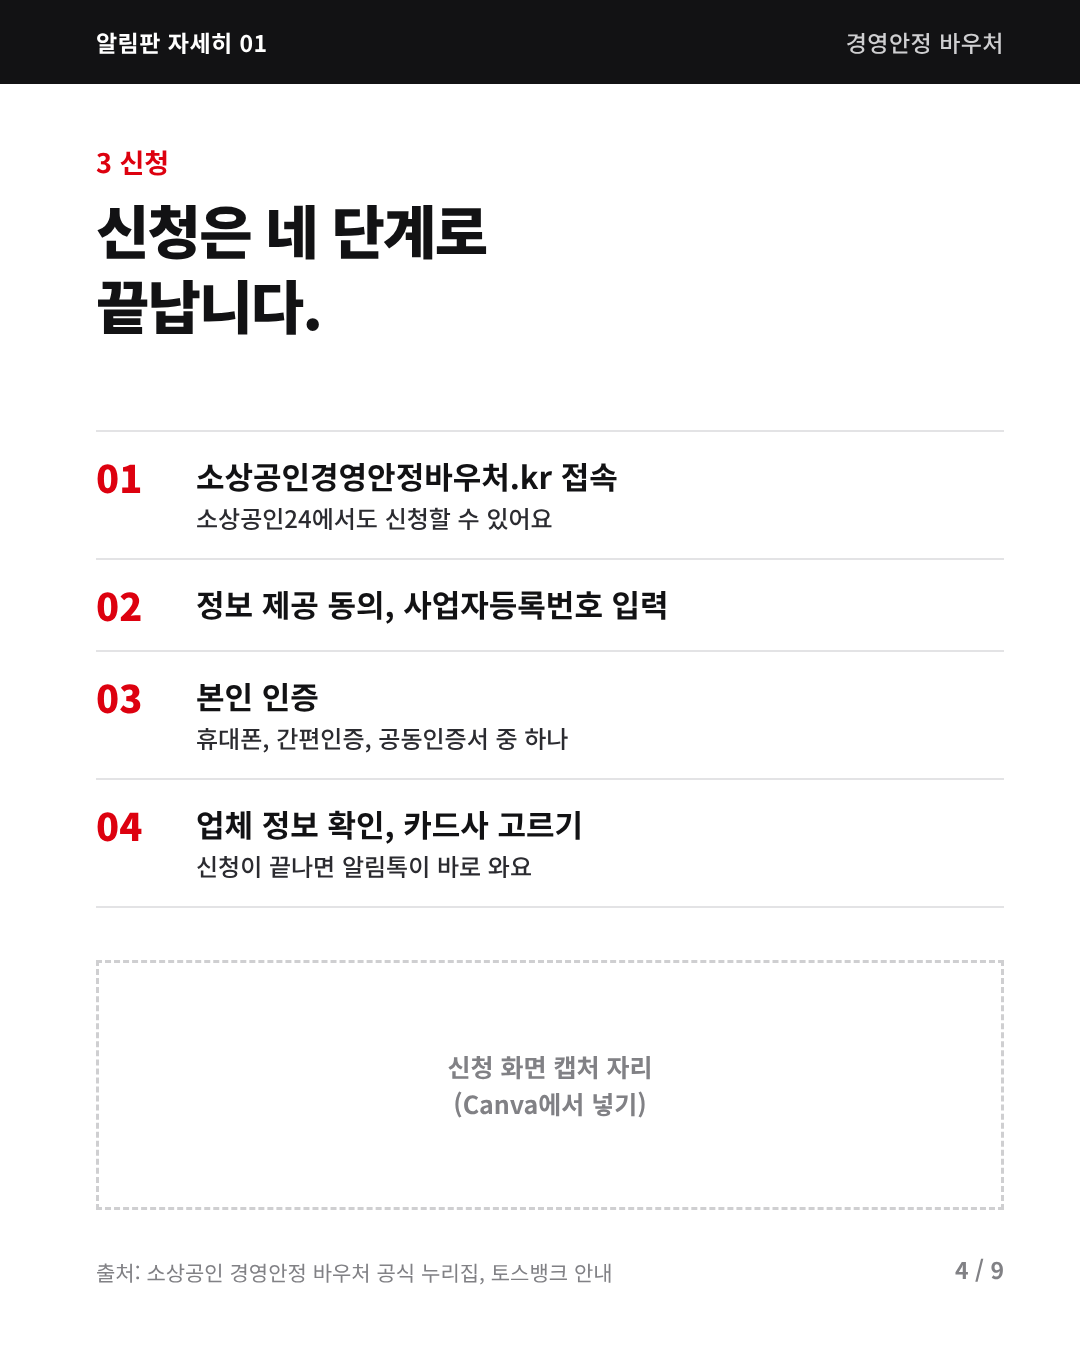
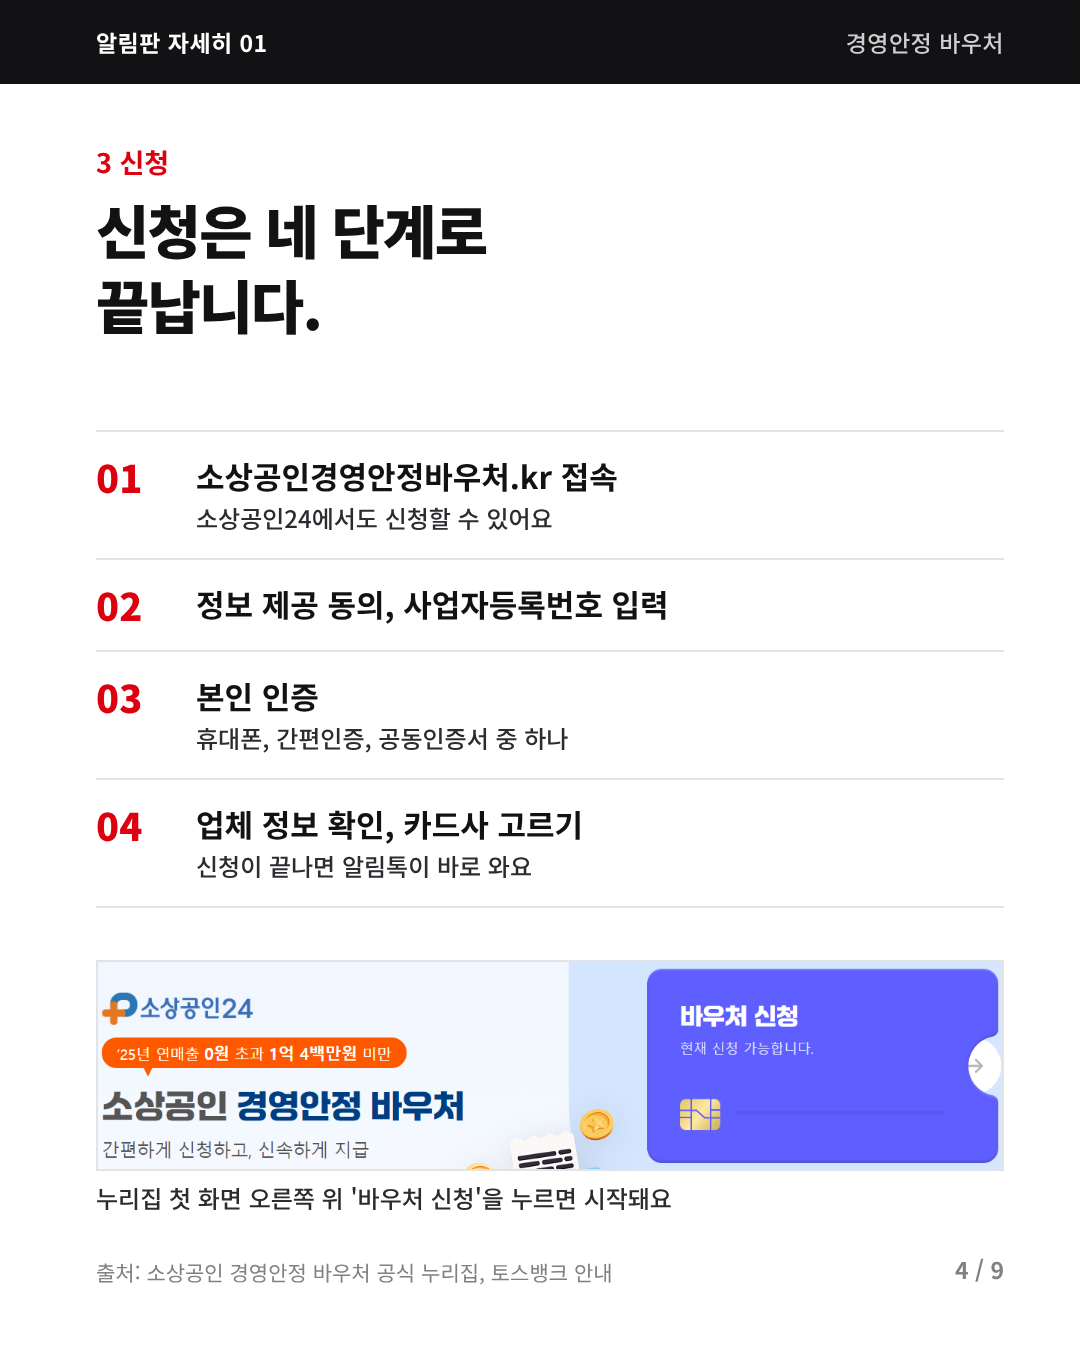
Put the voucher site screenshot behind the 알림판 자세히 01 cover
Use the user's capture of the voucher site's first screen as a blurred,
darkened cover background and as the slide 4 screenshot.

Claude-Session: https://claude.ai/code/session_01KoBnt2iz7SC3gdCuJPqB9A

Changed region(s): [[0.0917, 0.6844, 0.9472, 0.9022]]

diff --git a/instagram/2026-10_알림판자세히01_경영안정바우처/slides.html b/instagram/2026-10_알림판자세히01_경영안정바우처/slides.html
@@ -95,11 +95,16 @@ body{background:#888;font-family:var(--sans)}
 .steps p{font-size:31px;font-weight:700;line-height:1.4}
 .steps small{display:block;font-size:24px;font-weight:500;color:var(--body);margin-top:4px;line-height:1.45}
 .shot{position:absolute;left:96px;right:76px;border:3px dashed var(--g1);display:flex;align-items:center;justify-content:center;font-size:25px;font-weight:700;color:var(--g2);text-align:center;line-height:1.5}
+
+/* 표지 배경: 바우처 누리집 첫 화면(사용자 캡처)을 흐리게 깔고 어둡게 덮는다 */
+.photo{background:linear-gradient(rgba(10,10,11,.78),rgba(10,10,11,.84)),url(bg-voucher-home.jpg) center/cover;color:var(--white)}
+.shotimg{position:absolute;left:96px;right:76px;border:2px solid var(--line);display:block;width:908px;height:auto}
+.shotcap{position:absolute;left:96px;font-size:24px;font-weight:500;color:var(--body)}
 </style>
 </head>
 <body>
 
-<section class="slide grid" id="s1">
+<section class="slide photo" id="s1">
   <img class="logo" src="../assets/fynd-logo-white.png" alt="FYND">
   <span class="badge">알림판 자세히 01</span>
   <p class="date">사장님 알림판 01의 2번 소식 · 10월 9일 기준</p>
@@ -155,7 +160,8 @@ body{background:#888;font-family:var(--sans)}
     <li><b>03</b><p>본인 인증<small>휴대폰, 간편인증, 공동인증서 중 하나</small></p></li>
     <li><b>04</b><p>업체 정보 확인, 카드사 고르기<small>신청이 끝나면 알림톡이 바로 와요</small></p></li>
   </ol>
-  <div class="shot" style="top:960px;height:250px">신청 화면 캡처 자리<br>(Canva에서 넣기)</div>
+  <img class="shotimg" style="top:960px" src="shot-voucher-home.png" alt="소상공인 경영안정 바우처 누리집 첫 화면">
+  <p class="shotcap" style="top:1180px">누리집 첫 화면 오른쪽 위 '바우처 신청'을 누르면 시작돼요</p>
   <p class="src">출처: 소상공인 경영안정 바우처 공식 누리집, 토스뱅크 안내</p>
   <p class="page">4 / 9</p>
 </section>

diff --git a/instagram/README.md b/instagram/README.md
@@ -6,7 +6,7 @@
 |---|---|---|---|
 | `2026-10_사장님노트01_프로필점검` | 사장님 노트 | 10/14(수) 14시 | 제작 완료 |
 | `2026-10_사장님알림판01` | 사장님 알림판 | 10/10(토) 오전 | 제작 완료 (10/7 기준, 출처는 `research.md`) |
-| `2026-10_알림판자세히01_경영안정바우처` | 알림판 자세히 | 10/15(목) 14시 | 제작 완료 (10/9 기준, 4장 캡처 자리는 Canva) |
+| `2026-10_알림판자세히01_경영안정바우처` | 알림판 자세히 | 10/15(목) 14시 | 제작 완료 (10/9 기준, 누리집 캡처 배경) |
 | `2026-10_동네지도01_내포` | 동네 지도 | - | **보류** (억지스럽다는 피드백, 10/7) |
 
 각 폴더에는 `slides.html`(원본), `slide-NN.png`(1080×1350 결과물), `caption.md`(캡션·게시 정보·DM 틀)가 있습니다. 알림판처럼 사실 확인이 필요한 게시물은 `research.md`에 출처를 남깁니다.

diff --git a/instagram/2026-10_알림판자세히01_경영안정바우처/caption.md b/instagram/2026-10_알림판자세히01_경영안정바우처/caption.md
@@ -4,7 +4,7 @@
 - 장수: 9장, 4:5 (1080×1350) — `slide-01.png` ~ `slide-09.png`
 - 게시 제안: **10/15(목) 오후 2시** (점심 장사가 끝난 시간, 기존 오전·저녁 칸과 겹치지 않게)
 - 기준일: 2026년 10월 9일 (누리집 "현재 신청 가능합니다" 확인). 게시가 늦어지면 누리집에서 마감 여부를 다시 확인
-- 사진: 4번째 장 아래 점선 자리에 바우처 누리집 신청 화면 캡처를 Canva로 넣기 (없으면 점선 상자를 지우고 올려도 됨)
+- 사진: 사용자가 보낸 바우처 누리집 첫 화면 캡처(10/9)를 표지 배경(흐리게·어둡게, `bg-voucher-home.jpg`)과 4번째 장(`shot-voucher-home.png`)에 넣음. 신청 단계 화면은 아직 없음
 - 목표 행동: 저장 + 댓글 '바우처' → DM
 
 ## 캡션
